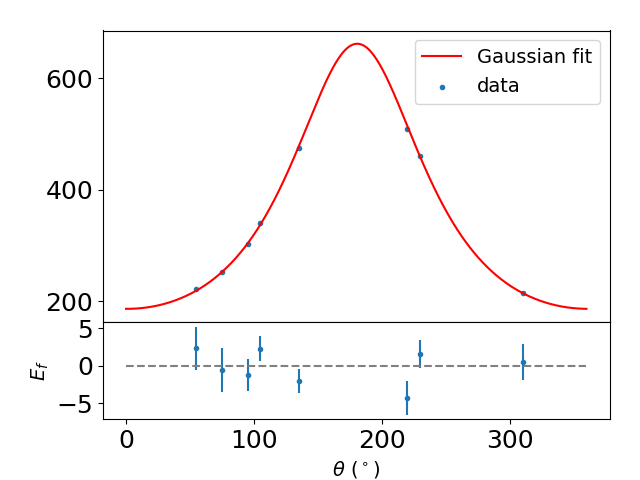
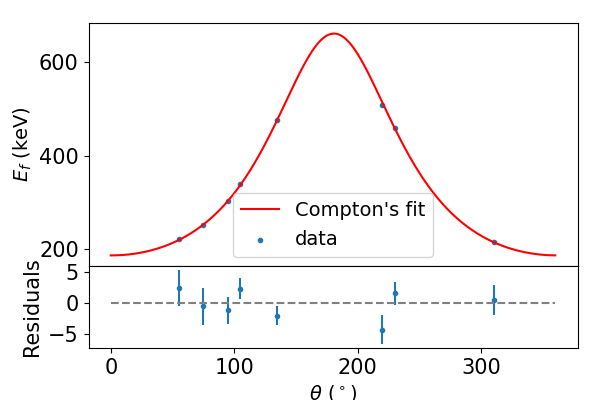
more straightforward way to calculate Ef

diff --git a/scripts/mass_calculator_fit.py b/scripts/mass_calculator_fit.py
@@ -7,17 +7,16 @@ from scipy.optimize import curve_fit
 
 def mass_electron(theta, m, g):
     '''
-    Calculate the predicted mass of the electron from a single peak in a photon spectrum.
-    Convert a peak location (in channel number) into energy via a linear relation y=ax+b, 
-    where a and b must be provided. The following formula is then used to calculate the 
-    mass of the electron:
-    m = (1/c^2) * 1/( 1/Ef - 1/E_i ) * (1 - cos(theta)),
-    where c = 3*10^8 m/s, E_i = 661.6 keV (energy of the source) and theta is in rad.
+    Fit Compton's formula for the mass of the electron. If we solve for Ef in Compton's formula,
+    we get Ef = 1/( (1/(mc^2))*(1-cos(theta)) + 1/Ei ). We fit y = Ef and x = theta, and 
+    we know Ei and work in units such that c^2 disappears. 
     '''
 
-    Ei = 661.657e3*con.e
-    Ef = 1/(((1-np.cos(theta*np.pi/180 - g))/(m/5.609588357e29)/con.c**2) + 1/Ei)/1e3/con.e
-
+    Ei = 661.657 # keV
+    Ef = 1/( (1/(m*1e3))*(1 - np.cos(theta*np.pi/180 - g))  + 1/Ei ) 
+    # c^2 cancels with the c^2 from [m]=MeV/c^2.
+    # factor of 1e3 is to convert MeV to keV.
+    
     return Ef
 
 
@@ -39,8 +38,8 @@ def fitter():
         value = (a*ufloat(peaks_data['peaks'][i], peaks_data['uncertainty'][i]) + b)
         data.append(value.n)
         data_uncertainties.append(value.std_dev)
-
-    res = curve_fit(mass_electron, peaks_data['angles'], data, p0=[0.511,np.pi], sigma = data_uncertainties)
+        
+    res = curve_fit(mass_electron, peaks_data['angles'], data, p0 = [0.511, np.pi], sigma = data_uncertainties)
     popt = res[0]
     unc = np.sqrt(np.diag(res[1]))
     linspace = np.linspace(0,360,1000)
@@ -51,10 +50,10 @@ def fitter():
     print(mass)
 
     plt.clf()
-    plt.rcParams.update({'font.size': 18})
+    plt.rcParams.update({'font.size': 15})
     fig, axs = plt.subplots(2, sharex=True, sharey=False, gridspec_kw = {'height_ratios': [3,1],'wspace':0, 'hspace':0})
     axs[0].scatter(peaks_data['angles'],data, marker = '.', label = 'data')
-    axs[0].plot(linspace, mass_electron(linspace, *popt), color = 'red', label = 'Gaussian fit')
+    axs[0].plot(linspace, mass_electron(linspace, *popt), color = 'red', label = 'Compton\'s fit')
 
     axs[0].errorbar(peaks_data['angles'],data, yerr = data_uncertainties, linestyle = "None",capsize=0)
     axs[0].legend(fontsize=14)
@@ -62,13 +61,13 @@ def fitter():
     #residual plot
     axs[1].scatter(peaks_data['angles'], data-mass_electron(peaks_data['angles'], *popt), marker = '.')
     axs[1].errorbar(peaks_data['angles'], data-mass_electron(peaks_data['angles'], *popt), yerr = data_uncertainties, linestyle = "None",capsize=0)
-    axs[1].set_ylabel('Residuals')
+    axs[1].set_ylabel('Residuals', fontsize=15)
     axs[1].plot(linspace,np.zeros(len(linspace)), color='grey', linestyle = '--')
     plt.subplots_adjust(wspace=0, hspace=0)
     plt.tight_layout()
 
     plt.xlabel(r'$\theta \ (^\circ)$', fontsize = 14)
-    plt.ylabel(r'$E_f$', fontsize = 14)
+    axs[0].set_ylabel(r'$E_f$ (keV)', fontsize = 14)
 
     plt.savefig('../figures/mass_fit.png')
     plt.show()
